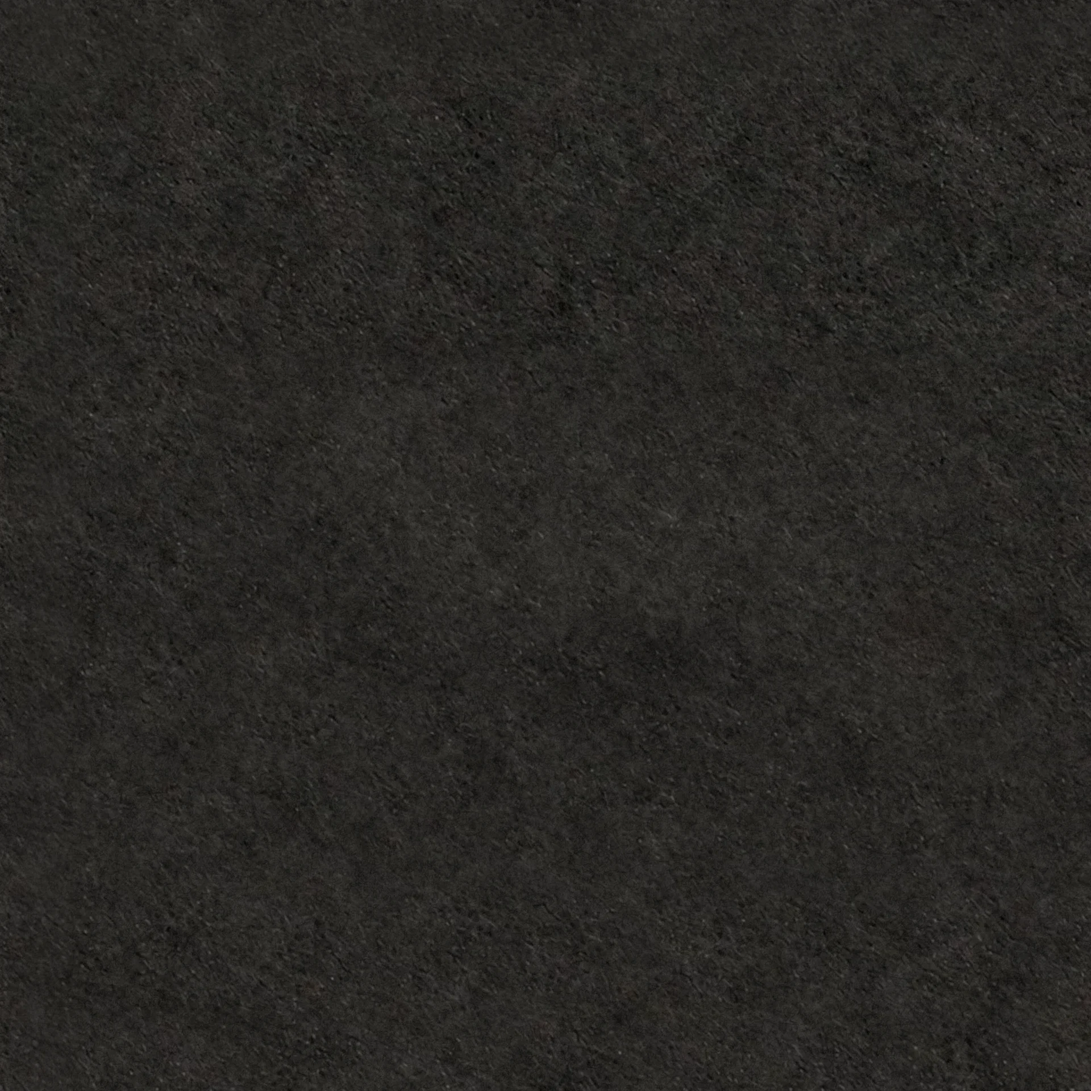
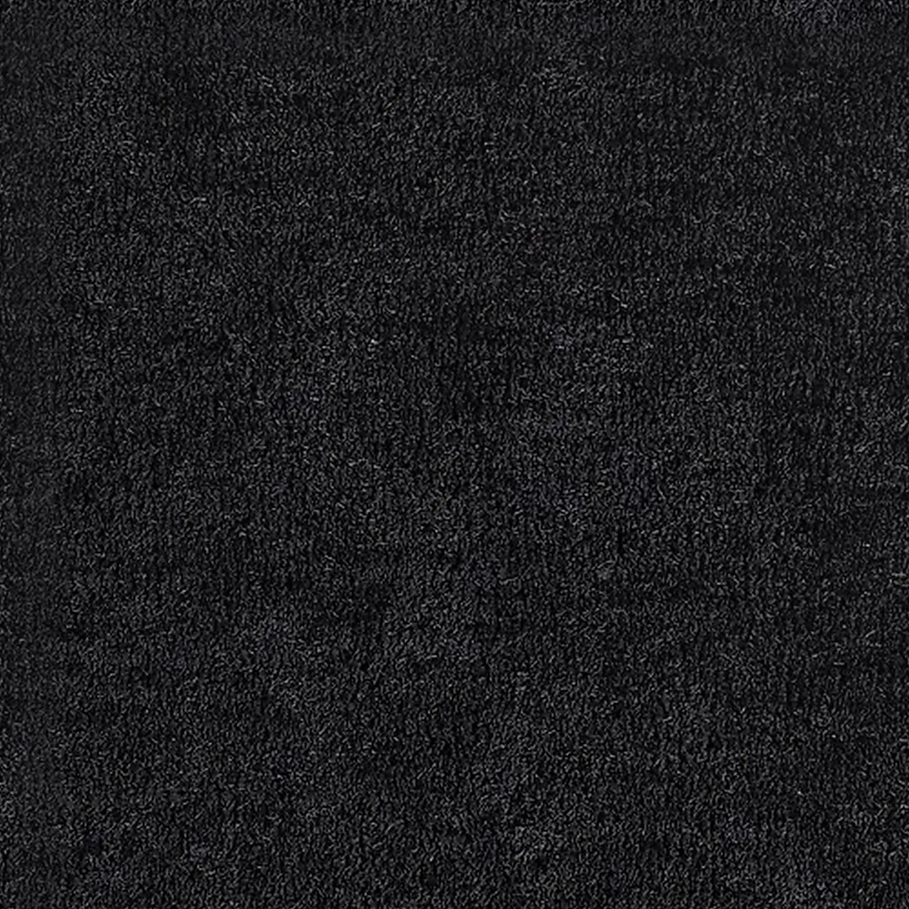
Rug background from the supplied wool-pile photo (seamless 1600px tile, shown at 800px); nav, menu and footer solid #131316
Claude-Session: https://claude.ai/code/session_018kT2iwbea5zgc86r8yrYQa

diff --git a/public/assets/v2.css b/public/assets/v2.css
@@ -1168,12 +1168,16 @@ html:not(.js) .nav-menu { visibility: hidden; }
 .acard-img::before { display: none; }
 
 /* ---------- Black surfaces: the HOP rug (credentials cover texture) instead of flat black ---------- */
-:root { --rug-c: #292825; --rug-i: url("/assets/tex/rug.webp"); }
-html { background: var(--rug-c) var(--rug-i) 0 0 / 960px 960px repeat; }
+:root { --rug-c: #1E1D1F; --rug-i: url("/assets/tex/rug.webp"); }
+html { background: var(--rug-c) var(--rug-i) 0 0 / 800px 800px repeat; }
 .ink, .nav.is-scrolled, .menu, .founders, .acard-img,
-.svc.is-open, .svc:has(.svc-btn:focus-visible) { background-color: var(--rug-c); background-image: var(--rug-i); background-size: 960px 960px; background-repeat: repeat; }
+.svc.is-open, .svc:has(.svc-btn:focus-visible) { background-color: var(--rug-c); background-image: var(--rug-i); background-size: 800px 800px; background-repeat: repeat; }
 @media (hover: hover) {
-  .svc:hover, .acard-a:hover { background-color: var(--rug-c); background-image: var(--rug-i); background-size: 960px 960px; }
+  .svc:hover, .acard-a:hover { background-color: var(--rug-c); background-image: var(--rug-i); background-size: 800px 800px; }
 }
 /* the intro keeps a lighter step on the same rug */
-.manifesto { background-image: linear-gradient(rgba(239, 235, 228, .045), rgba(239, 235, 228, .045)), var(--rug-i); background-size: auto, 960px 960px; }
+.manifesto { background-image: linear-gradient(rgba(239, 235, 228, .045), rgba(239, 235, 228, .045)), var(--rug-i); background-size: auto, 800px 800px; }
+
+/* Nav, menu and footer: solid dark, no texture */
+:root { --chrome: #131316; }
+.nav.is-scrolled, .menu, #site-foot, #site-foot.ink { background: var(--chrome) !important; }

diff --git a/public/assets/v2-foot.css b/public/assets/v2-foot.css
@@ -23,7 +23,7 @@
   --ease-in: cubic-bezier(.55, 0, 1, .45);
   --spring: cubic-bezier(.34, 1.4, .64, 1);
 }
-#site-foot { background: #292825 url("/assets/tex/rug.webp") 0 0 / 960px 960px repeat; color: var(--ivory); font-family: var(--serif); font-weight: 400; font-size: 17px; line-height: 1.55; font-optical-sizing: auto; -webkit-font-smoothing: antialiased; text-rendering: optimizeLegibility; text-align: left; }
+#site-foot { background: #131316; color: var(--ivory); font-family: var(--serif); font-weight: 400; font-size: 17px; line-height: 1.55; font-optical-sizing: auto; -webkit-font-smoothing: antialiased; text-rendering: optimizeLegibility; text-align: left; }
 #site-foot *, #site-foot *::before, #site-foot *::after { box-sizing: border-box; }
 #site-foot p, #site-foot ul { margin: 0; padding: 0; list-style: none; }
 #site-foot a { color: inherit; text-decoration: none; }

diff --git a/public/index.html b/public/index.html
@@ -6,7 +6,7 @@
 <title>HOP. Brand strategy for businesses ready to leap</title>
 <meta name="description" content="HOP is Poland’s first global brand partner. Two senior partners, over twenty years of leaps, helping Polish companies with world-class products build brands the world knows.">
 <!--SEO-->
-<meta name="theme-color" content="#292825">
+<meta name="theme-color" content="#131316">
 <link rel="icon" href="/assets/favicon.svg" type="image/svg+xml">
 <link rel="icon" href="/assets/favicon-32.png" type="image/png" sizes="32x32">
 <link rel="apple-touch-icon" href="/assets/apple-touch-icon.png">

diff --git a/public/articles/consectetur-adipiscing-elit.html b/public/articles/consectetur-adipiscing-elit.html
@@ -6,7 +6,7 @@
 <title>Consectetur adipiscing elit · HOP. Articles</title>
 <meta name="description" content="Ut enim ad minim veniam, quis nostrud exercitation ullamco laboris nisi ut aliquip ex ea commodo.">
 <meta name="robots" content="noindex">
-<meta name="theme-color" content="#292825">
+<meta name="theme-color" content="#131316">
 <link rel="icon" href="/assets/favicon.svg" type="image/svg+xml">
 <link rel="icon" href="/assets/favicon-32.png" type="image/png" sizes="32x32">
 <link rel="apple-touch-icon" href="/assets/apple-touch-icon.png">

diff --git a/public/articles/duis-aute-irure.html b/public/articles/duis-aute-irure.html
@@ -6,7 +6,7 @@
 <title>Duis aute irure in voluptate · HOP. Articles</title>
 <meta name="description" content="Excepteur sint occaecat cupidatat non proident, sunt in culpa qui officia deserunt mollit.">
 <meta name="robots" content="noindex">
-<meta name="theme-color" content="#292825">
+<meta name="theme-color" content="#131316">
 <link rel="icon" href="/assets/favicon.svg" type="image/svg+xml">
 <link rel="icon" href="/assets/favicon-32.png" type="image/png" sizes="32x32">
 <link rel="apple-touch-icon" href="/assets/apple-touch-icon.png">

diff --git a/public/articles/lorem-ipsum-dolor.html b/public/articles/lorem-ipsum-dolor.html
@@ -6,7 +6,7 @@
 <title>Lorem ipsum dolor · HOP. Articles</title>
 <meta name="description" content="Sed do eiusmod tempor incididunt ut labore et dolore magna aliqua, quis nostrud exercitation.">
 <meta name="robots" content="noindex">
-<meta name="theme-color" content="#292825">
+<meta name="theme-color" content="#131316">
 <link rel="icon" href="/assets/favicon.svg" type="image/svg+xml">
 <link rel="icon" href="/assets/favicon-32.png" type="image/png" sizes="32x32">
 <link rel="apple-touch-icon" href="/assets/apple-touch-icon.png">

diff --git a/public/contact.html b/public/contact.html
@@ -6,7 +6,7 @@
 <title>Contact · HOP.</title>
 <meta name="description" content="Contact HOP.: tell us about your business and where it wants to go. Write to us, or call one of us directly.">
 <!--SEO-->
-<meta name="theme-color" content="#292825">
+<meta name="theme-color" content="#131316">
 <link rel="icon" href="/assets/favicon.svg" type="image/svg+xml">
 <link rel="icon" href="/assets/favicon-32.png" type="image/png" sizes="32x32">
 <link rel="apple-touch-icon" href="/assets/apple-touch-icon.png">

diff --git a/public/articles/index.html b/public/articles/index.html
@@ -6,7 +6,7 @@
 <title>Articles · HOP.</title>
 <meta name="description" content="Notes on brand, positioning and taking Polish companies global, from the two partners of HOP.">
 <!--SEO-->
-<meta name="theme-color" content="#292825">
+<meta name="theme-color" content="#131316">
 <link rel="icon" href="/assets/favicon.svg" type="image/svg+xml">
 <link rel="icon" href="/assets/favicon-32.png" type="image/png" sizes="32x32">
 <link rel="apple-touch-icon" href="/assets/apple-touch-icon.png">
